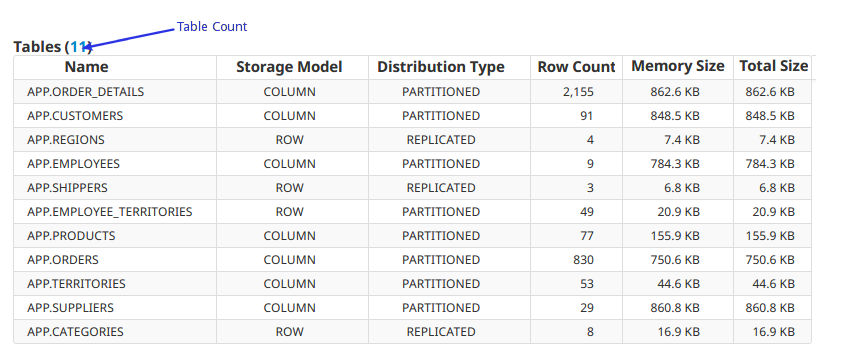
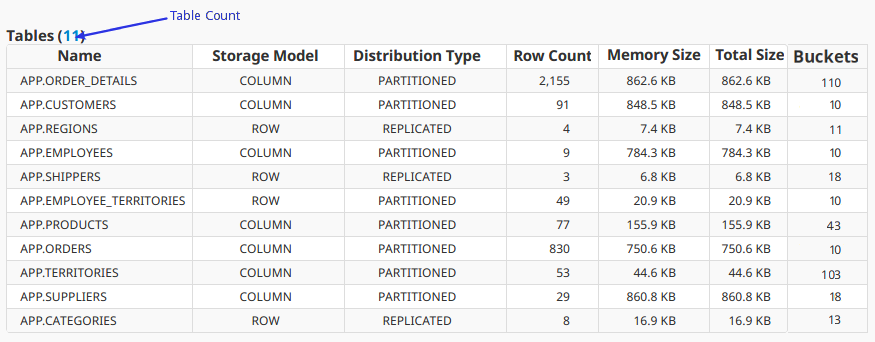
Updates to montoring/pulse pages and other changes

diff --git a/docs/install.md b/docs/install.md
@@ -1,15 +1,15 @@
 # Download and Install
 
-SnappyData offers two editions of the product, SnappyData Community Edition and SnappyData Enterprise Edition.
+SnappyData offers two editions of the product, SnappyData Community Edition, and SnappyData Enterprise Edition.
 
-The SnappyData Community edition is Apache 2.0 licensed. It is a free, open-source version of the product that can be downloaded by anyone.
-The Enterprise edition includes several additional capabilities that are closed source and only available as part of a licensed subscription.
+The SnappyData Community Edition is Apache 2.0 licensed. It is a free, open-source version of the product that can be downloaded by anyone.
+The Enterprise Edition includes several additional capabilities that are closed source and only available as part of a licensed subscription.
 
-For more information on the capabilities of the Community and Enterprise edition see, [Community Edition (Open Source)/Enterprise Edition Components](additional_files/open_source_components.md).
+For more information on the capabilities of the Community and Enterprise editions see [Community Edition (Open Source)/Enterprise Edition Components](additional_files/open_source_components.md).
 
 <heading2> Download SnappyData Community Edition</heading2>
 
-[Download the SnappyData 1.0.1 Community edition (Open Source)](https://github.com/SnappyDataInc/snappydata/releases/) from the release page, which lists the latest and previous releases of SnappyData. The packages are available in compressed files (.tar format).
+[Download the SnappyData 1.0.1 Community Edition (Open Source)](https://github.com/SnappyDataInc/snappydata/releases/) from the release page, which lists the latest and previous releases of SnappyData. The packages are available in compressed files (.tar format).
 
 * [**SnappyData 1.0.1 Release download link**](https://github.com/SnappyDataInc/snappydata/releases/download/v1.0.1/snappydata-1.0.1-bin.tar.gz)
 
@@ -64,4 +64,4 @@ snappydata          hard    sigpending  unlimited
 snappydata          soft    sigpending  524288
 ```
 
-Here `snappydata` is the user name under which the SnappyData processes are started.
+Here `snappydata` is the username under which the SnappyData processes are started.

diff --git a/docs/reference/sql_reference/put-into.md b/docs/reference/sql_reference/put-into.md
@@ -1,14 +1,13 @@
 # PUT INTO
 
 <note>
-	SnappyData does not support PUT INTO with a subselect query, if, the subselect query requires aggregation.
+	 Insert/PUT INTO with partial column specification is not currently supported.
 
-``` bash
-    PUT INTO table-name
-         VALUES ( column-value [ , column-value ]* ) 
+``` no-highlight
+    PUT INTO table-name VALUES ( column-value [ , column-value ]* ) 
 ```
 
-``` bash
+``` no-highlight
     PUT INTO table-name
         ( simple-column-name [ , simple-column-name ]* )
        Query
@@ -28,15 +27,20 @@ The PUT INTO statement is similar to the "UPSERT" command or capability provided
 #### Example
 
 ```no-highlight
-PUT INTO TRADE.CUSTOMERS VALUES (1, 'User 1', '07-06-2002', 'SnappyData', 1);
+PUT INTO TRADE.CUSTOMERS VALUES (1, 'User 1', '2001-10-12', 'SnappyData', 1);
 ```
 
 When specifying columns with table, columns should not have any [CONSTRAINT](create-table.md#constraint), as explained in the following example:
 
 ```no-highlight
-PUT INTO TRADE.CUSTOMERS (CID ,CUST_NAME , ADDR ,TID)
- VALUES (1, 'User 1' , 'SnappyData', 1),
- (2, 'User 2' , 'SnappyData', 1);
+PUT INTO TRADE.CUSTOMERS (CID ,CUST_NAME , ADDR ,TID) VALUES (1, 'User 1' , 'SnappyData', 1), (2, 'User 2' , 'SnappyData', 1);
+```
+
+PUT into another table using a select statement
+``` no-highlight
+PUT INTO TRADE.NEWCUSTOMERS SELECT * from TRADE.CUSTOMERS;
+
+PUT INTO TRADE.NEWCUSTOMERS SELECT * from TRADE.CUSTOMERS WHERE CUST_NAME='User 1'
 ```
 
 ###	For Column Tables
@@ -51,16 +55,18 @@ These columns are used to identify a row uniquely. PUT INTO is available by SQL 
 
 **For SQL**
 
-``` bash
-put into table col_table select * from row_table
+``` no-highlight
+-- Insert into another table using a select statement for column tables with key columns
+PUT INTO NEWEMPLOYEES SELECT * from EMPLOYEES;
+
+PUT INTO NEWEMPLOYEES SELECT * from EMPLOYEES WHERE C_NAME='User 1'
 ```
 
 **For API**
 
 API is available from the DataFrameWriter extension.
 
-``` bash
+``` no-highlight
 import org.apache.spark.sql.snappy._
 dataFrame.write.putInto("col_table")
 ```
-

diff --git a/docs/reference/sql_reference/insert.md b/docs/reference/sql_reference/insert.md
@@ -25,28 +25,26 @@ For more information, refer to [SELECT](select.md).
 ## Example
 
 ```no-highlight
-INSERT INTO TRADE.CUSTOMERS
-      VALUES (1, 'User 1', '07-06-2002', 'SnappyData', 1);
+
+--create table trade.customers
+CREATE TABLE TRADE.CUSTOMERS (CID INT, CUST_NAME VARCHAR(100), SINCE DATE, ADDR VARCHAR(100));
+
+INSERT INTO TRADE.CUSTOMERS VALUES (1, 'User 1', '2001-10-12', 'SnappyData');
 
 -- Insert a new customer into the CUSTOMERS  table,
 -- but do not assign  value to  'SINCE'  column
-INSERT INTO TRADE.CUSTOMERS(CID ,CUST_NAME , ADDR ,TID)
- VALUES (1, 'User 1', 'SnappyData', 1);
+INSERT INTO TRADE.CUSTOMERS(CID, CUST_NAME,  ADDR) VALUES (2, 'USER 2', 'SnappyData');
 
 -- Insert two new customers using one statement 
 -- into the CUSTOMER table as in the previous example, 
 -- but do not assign  value to 'SINCE'  field of the new customer.
-INSERT INTO TRADE.CUSTOMERS (CID ,CUST_NAME , ADDR ,TID)
- VALUES (1, 'User 1' , 'SnappyData', 1),
- (2, 'User 2' , 'SnappyData', 1);
+INSERT INTO TRADE.CUSTOMERS (CID ,CUST_NAME , ADDR) VALUES (3, 'User 3' , 'SnappyData'), (4, 'User 4' , 'SnappyData');
 
--- Insert the DEFAULT value for the LOCATION column
-INSERT INTO TRADE.CUSTOMERS
-      VALUES (1, 'User 1', DEFAULT, 'SnappyData',1);
+-- Insert the DEFAULT value for the SINCE column
+INSERT INTO TRADE.CUSTOMERS VALUES (1, 'User 1', DEFAULT, 'SnappyData');
 
--- Insert using a select statement.
-INSERT INTO TRADE.NEWCUSTOMERS
-     SELECT * from TRADE.CUSTOMERS WHERE TID=1;
+-- Insert into another table using a select statement.
+INSERT INTO TRADE.NEWCUSTOMERS SELECT * from TRADE.CUSTOMERS WHERE CUST_NAME='User 1';
 ```
 
 

diff --git a/docs/reference/system_tables/systablestats.md b/docs/reference/system_tables/systablestats.md
@@ -5,8 +5,8 @@ Creates a virtual table that displays statistics for all the tables that exist i
 |Column Name|Type|Length|Nullable|Contents|
 |---|---|---|---|----|
 |TABLE |VARCHAR|512|NO|Name of the table|
-|IS_COLUMN_TABLE|BOOLEAN||NO|True indicates that the table is a column table|
-|IS_REPLICATED_TABLE|BOOLEAN||NO|True indicates that the table is a replicated table|
+|IS_COLUMN_TABLE|BOOLEAN||NO|Displays **True** for column tables and **False** for row tables|
+|IS_REPLICATED_TABLE|BOOLEAN||NO|Displays **True** for replicated tables and **False** for partitioned tables|
 |ROW_COUNT|BIGINT|10|NO|Total number of rows in the table|
 |SIZE_IN_MEMORY|BIGINT|10|NO|Heap memory used by data table to store its data/records.|
 |TOTAL_SIZE|BIGINT|10|NO|Collective physical memory and disk overflow space used by the data table to store its data/record|

diff --git a/docs/quickstart/getting_started_with_docker_image.md b/docs/quickstart/getting_started_with_docker_image.md
@@ -23,9 +23,8 @@ In the command prompt, type the following command to get the Docker image. This 
 $  docker run -it -p 5050:5050 snappydatainc/snappydata bin/spark-shell
 ```
 
-The latest image files starts downloading to your local machine. Depending on your network connection, it may take some time. </br>
+The latest image files start downloading to your local machine. Depending on your network connection, it may take some time. </br>
 
 Once you have launched the Spark shell, in the `$ scala>` prompt, follow the steps explained [here](using_spark_scala_apis.md).</br>
 
 For more details about SnappyData Docker image see [Snappy Cloud Tools](https://github.com/SnappyDataInc/snappy-cloud-tools/tree/master/docker).
-

diff --git a/docs/troubleshooting/troubleshooting_error_messages.md b/docs/troubleshooting/troubleshooting_error_messages.md
@@ -54,7 +54,7 @@ You can also configure tables for eviction so that table rows are evicted from m
 <!-- --------------------------------------------------------------------------- -->
 
 <a id="seconds-elapsed"></a>
-<!-- <error> **Error Message:** </error> -->
+<error> ** Message:** </error>
 <error-text>
 {0} seconds have elapsed while waiting for reply from {1} on {2} whose current membership list is: [{3}]
 </error-text>

diff --git a/docs/monitoring/monitoring.md b/docs/monitoring/monitoring.md
@@ -120,6 +120,10 @@ The Dashboard offers the following capabilities and benefits:
 
 * **Total Size**</br>
    Displays the collective physical memory and disk overflow space used by the data table to store its data/records.
+<!--
+ **BUCKETS**</br>
+   Displays the total number of buckets in the data table.
+-->
 
 ![Dashboard](../Images/monitoring_external_table.png)
 <a id="external-table"></a>
